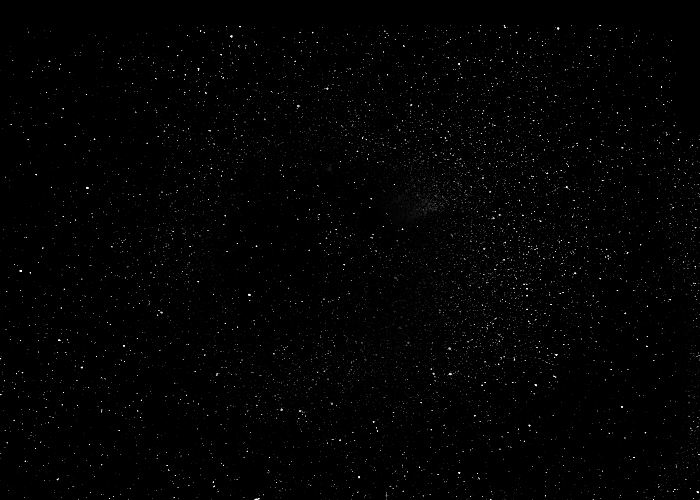
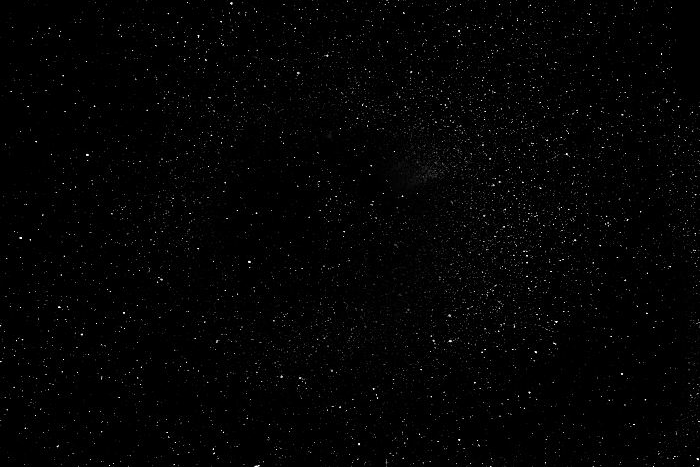
Version 02 faite, mais pas satisfait du résultat - à retravailler

diff --git a/index.html b/index.html
@@ -7,58 +7,19 @@
     <link rel="stylesheet" href="style/default.css">
 </head>
 <body>
-    <header>
-        <h1>The Star Wars Crawl</h1>
-    </header>
-
-    <nav>
-        <ol>
-            <li>Accueil</li>
-            <li>Blog</li>
-            <li>Contact</li>
-        </ol>
-    </nav>
-
-    <section id="starwars">
-        <section id="ecran">
-            <article class="animation">
-                <p>STAR WARS : EPISODE MMXXIV<br>
-                    Le Réveil de BeCode <br><br><br><br><br><br><br><br><br><br><br><br><br><br><br>
-                    Lorem ipsum dolor sit amet, <br>
-                    consectetur adipiscing elit. <br>
-                    Aliquam ipsum risus, rutrum et <br>
-                    posuere sed, fermentum non lorem. <br><br>
-                    Nulla congue leo vitae tincidunt iaculis. <br>
-                    Maecenas rutrum vitae est sit <br>
-                    amet tristique. <br>
-                    Aliquam vitae venenatis tellus, <br>
-                    vel faucibus arcu. Duis volutpat <br>
-                    vehicula turpis, at tristique <br>
-                    risus volutpat ac. <br><br>
-                    Etiam molestie nunc tortor. <br>
-                    Cras non nunc nec risus semper gravida. <br>
-                    Mauris et dui quam. In erat nisl, <br>
-                    tristique vitae nunc pretium, <br>
-                    sagittis auctor elit. <br>
-                    Lorem ipsum dolor sit amet, <br>
-                    consectetur adipiscing elit. <br>
-                    Aliquam ipsum risus, rutrum et <br>
-                    posuere sed, fermentum non lorem. <br><br>
-                    Nulla congue leo vitae tincidunt iaculis. <br>
-                    Maecenas rutrum vitae est sit <br>
-                    amet tristique. <br>
-                    Aliquam vitae venenatis tellus, <br>
-                    vel faucibus arcu. Duis volutpat <br>
-                    vehicula turpis, at tristique <br>
-                    risus volutpat ac. <br><br>
-                </p>
-            </article>
-        </section>
-    </section>
     
-    <footer>
-        <h4>Cedric Truyen &copy; BeCode Brussels</h4>
-    </footer>
+    <section class="ecran_tv">
+        <article class="animation">
+            <h2>STAR WARS : EPISODE XXIV</h2>
+            <h3>Le code se réveille</h3>
+            <p>Lorem ipsum, dolor sit amet consectetur adipisicing elit. Labore, nam consequatur. Aspernatur ducimus consectetur velit aliquam repellendus quisquam voluptatem fugiat perferendis repellat nostrum, totam cum fuga deserunt voluptatibus quaerat corporis dolorum est? Eligendi ut facere magnam reprehenderit recusandae eos veniam.</p>
+            <p>Lorem ipsum, dolor sit amet consectetur adipisicing elit. Labore, nam consequatur. Aspernatur ducimus consectetur velit aliquam repellendus quisquam voluptatem fugiat perferendis repellat nostrum, totam cum fuga deserunt voluptatibus quaerat corporis dolorum est? Eligendi ut facere magnam reprehenderit recusandae eos veniam.</p>
+            <p>Lorem ipsum, dolor sit amet consectetur adipisicing elit. Labore, nam consequatur. Aspernatur ducimus consectetur velit aliquam repellendus quisquam voluptatem fugiat perferendis repellat nostrum, totam cum fuga deserunt voluptatibus quaerat corporis dolorum est? Eligendi ut facere magnam reprehenderit recusandae eos veniam.</p>
+            <p>Lorem ipsum, dolor sit amet consectetur adipisicing elit. Labore, nam consequatur. Aspernatur ducimus consectetur velit aliquam repellendus quisquam voluptatem fugiat perferendis repellat nostrum, totam cum fuga deserunt voluptatibus quaerat corporis dolorum est? Eligendi ut facere magnam reprehenderit recusandae eos veniam.</p>
+            <p>Lorem ipsum, dolor sit amet consectetur adipisicing elit. Labore, nam consequatur. Aspernatur ducimus consectetur velit aliquam repellendus quisquam voluptatem fugiat perferendis repellat nostrum, totam cum fuga deserunt voluptatibus quaerat corporis dolorum est? Eligendi ut facere magnam reprehenderit recusandae eos veniam.</p>
+        </article>
+    </section>
+
 
 </body>
 </html>

diff --git a/style/default.css b/style/default.css
@@ -1,3 +1,56 @@
+@import url('https://fonts.googleapis.com/css2?family=Roboto:wght@500;700&display=swap');
+
+body {
+    background-image: url(/pictures/fond_etoiles_02.png);
+    overflow: hidden;
+    font-family: 'Roboto';
+    margin: 50% 0 0 0;
+    position: relative;
+}
+
+.ecran_tv {
+    display: flex;
+    height: 100%;
+    width: 60%;
+    margin: 0 auto;
+    perspective: 450px;
+}
+
+.animation {
+    color: #ffc909;
+    font-size: 3vw;
+    line-height: 1.5em;
+    font-weight: bold;
+    text-align: justify;
+    position: relative;
+    animation: starwars 60s linear forwards;
+}
+
+.animation h2, h3{
+    text-align: center;
+}
+
+@keyframes starwars {
+    from {
+        top: 0;
+        transform: translateZ(0) rotateX(20deg);
+        /* transform: rotateX(20deg); */
+    }
+    to {
+        top: -7500px;
+        transform: translateZ(-2500px) rotateX(21deg);
+        /* transform: rotateX(21deg); */
+    }
+}
+
+
+
+
+
+
+
+
+
 /* Infos
 
 Jaune Star Wars Impérial ==> #ffe436
@@ -6,7 +59,7 @@ Jaune Star Wars Impérial ==> #ffe436
 
 /* SECTIONS */
 
-body {
+/* body {
     margin :0;
     background-color: black;
     color: #ffe436;
@@ -24,10 +77,10 @@ footer {
     background-color: black;
     padding-top: 15px;
     padding-bottom: 5px;
-}
+} */
 
 /* NAVIGATION */
-
+/* 
 nav ol li{
     display: inline;
     margin: 15px;
@@ -37,10 +90,10 @@ nav{
     margin: auto;
     text-align: center;
 }
-
+ */
 
 /* TITRES */
-
+/* 
 h1 {
     color: black;
     font-size: 4em;
@@ -60,20 +113,20 @@ h4 {
     margin: auto;
     text-align: center;
 }
-
+ */
 
 /* ID  */
-
+/* 
 #starwars {
     width: 960px;
     height: auto;
     margin: auto;
-}
+} */
 
 
 /* CLASS */
 
-.animation {
+/* .animation {
     max-width: 30em;
     margin: 3em auto 2em;
     border: 1em solid #F0F0FF;
@@ -106,3 +159,4 @@ h4 {
   p{
     font-size: 1.5em;
   }
+   */
